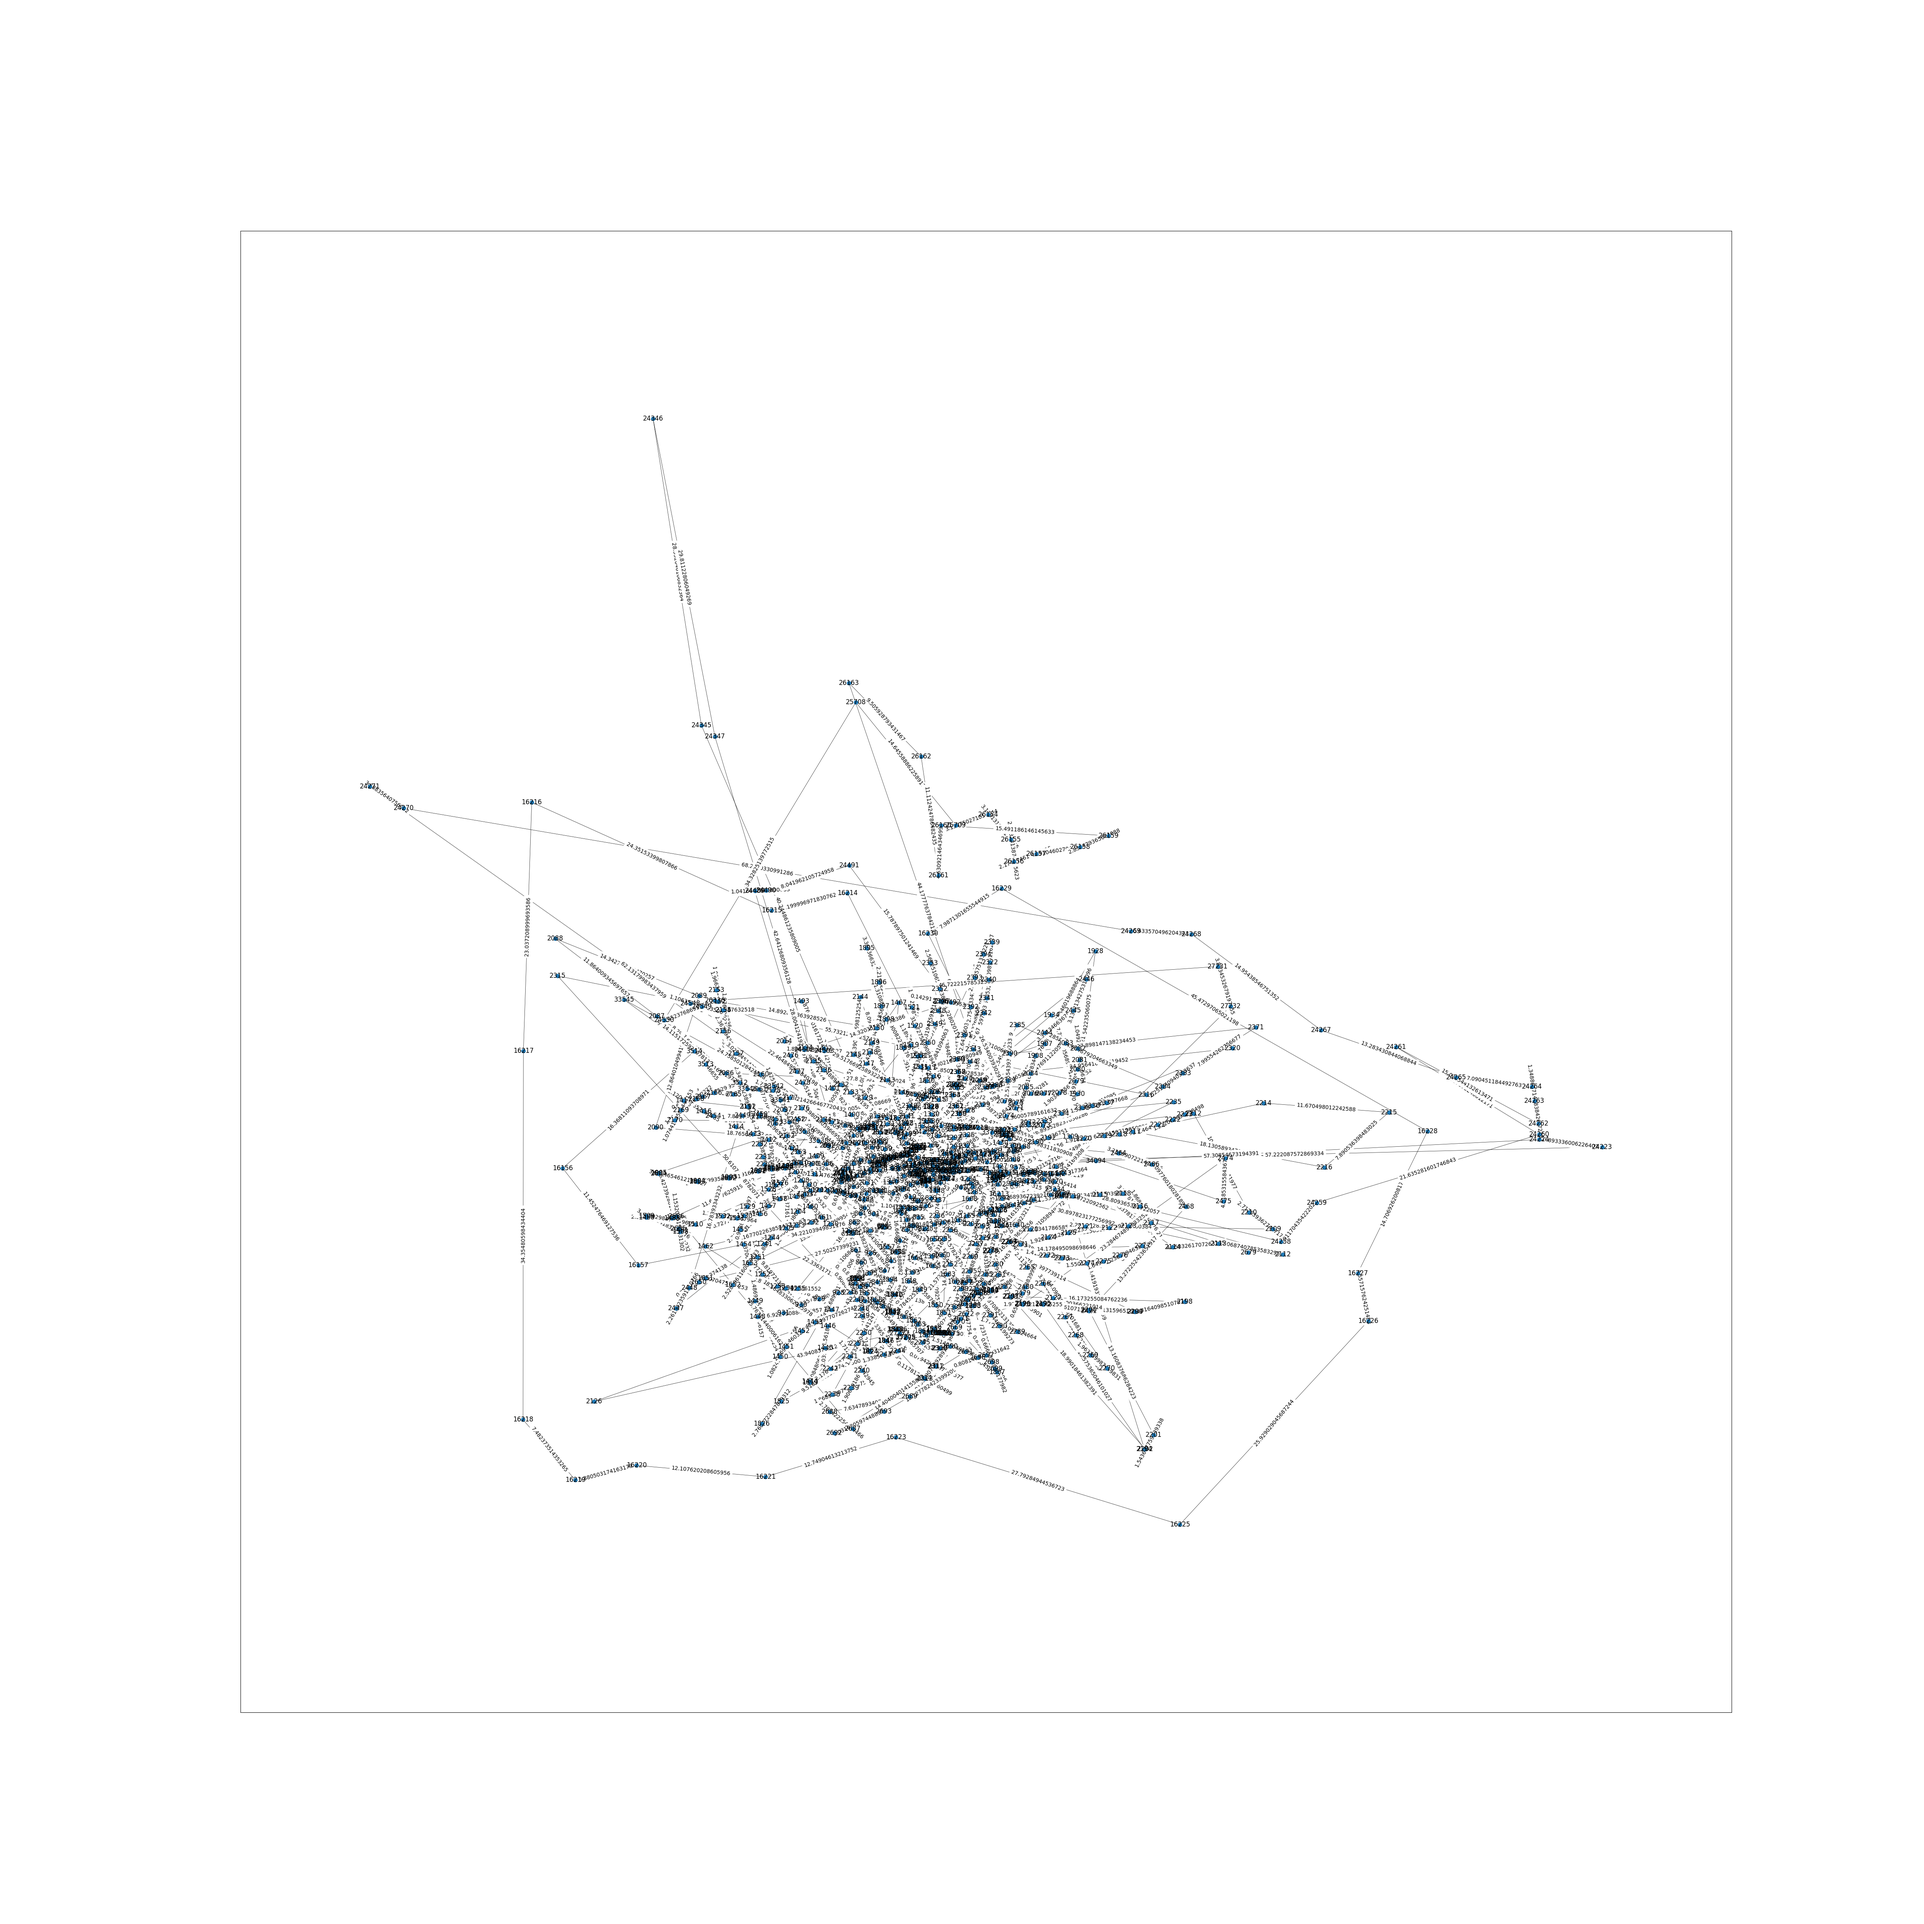
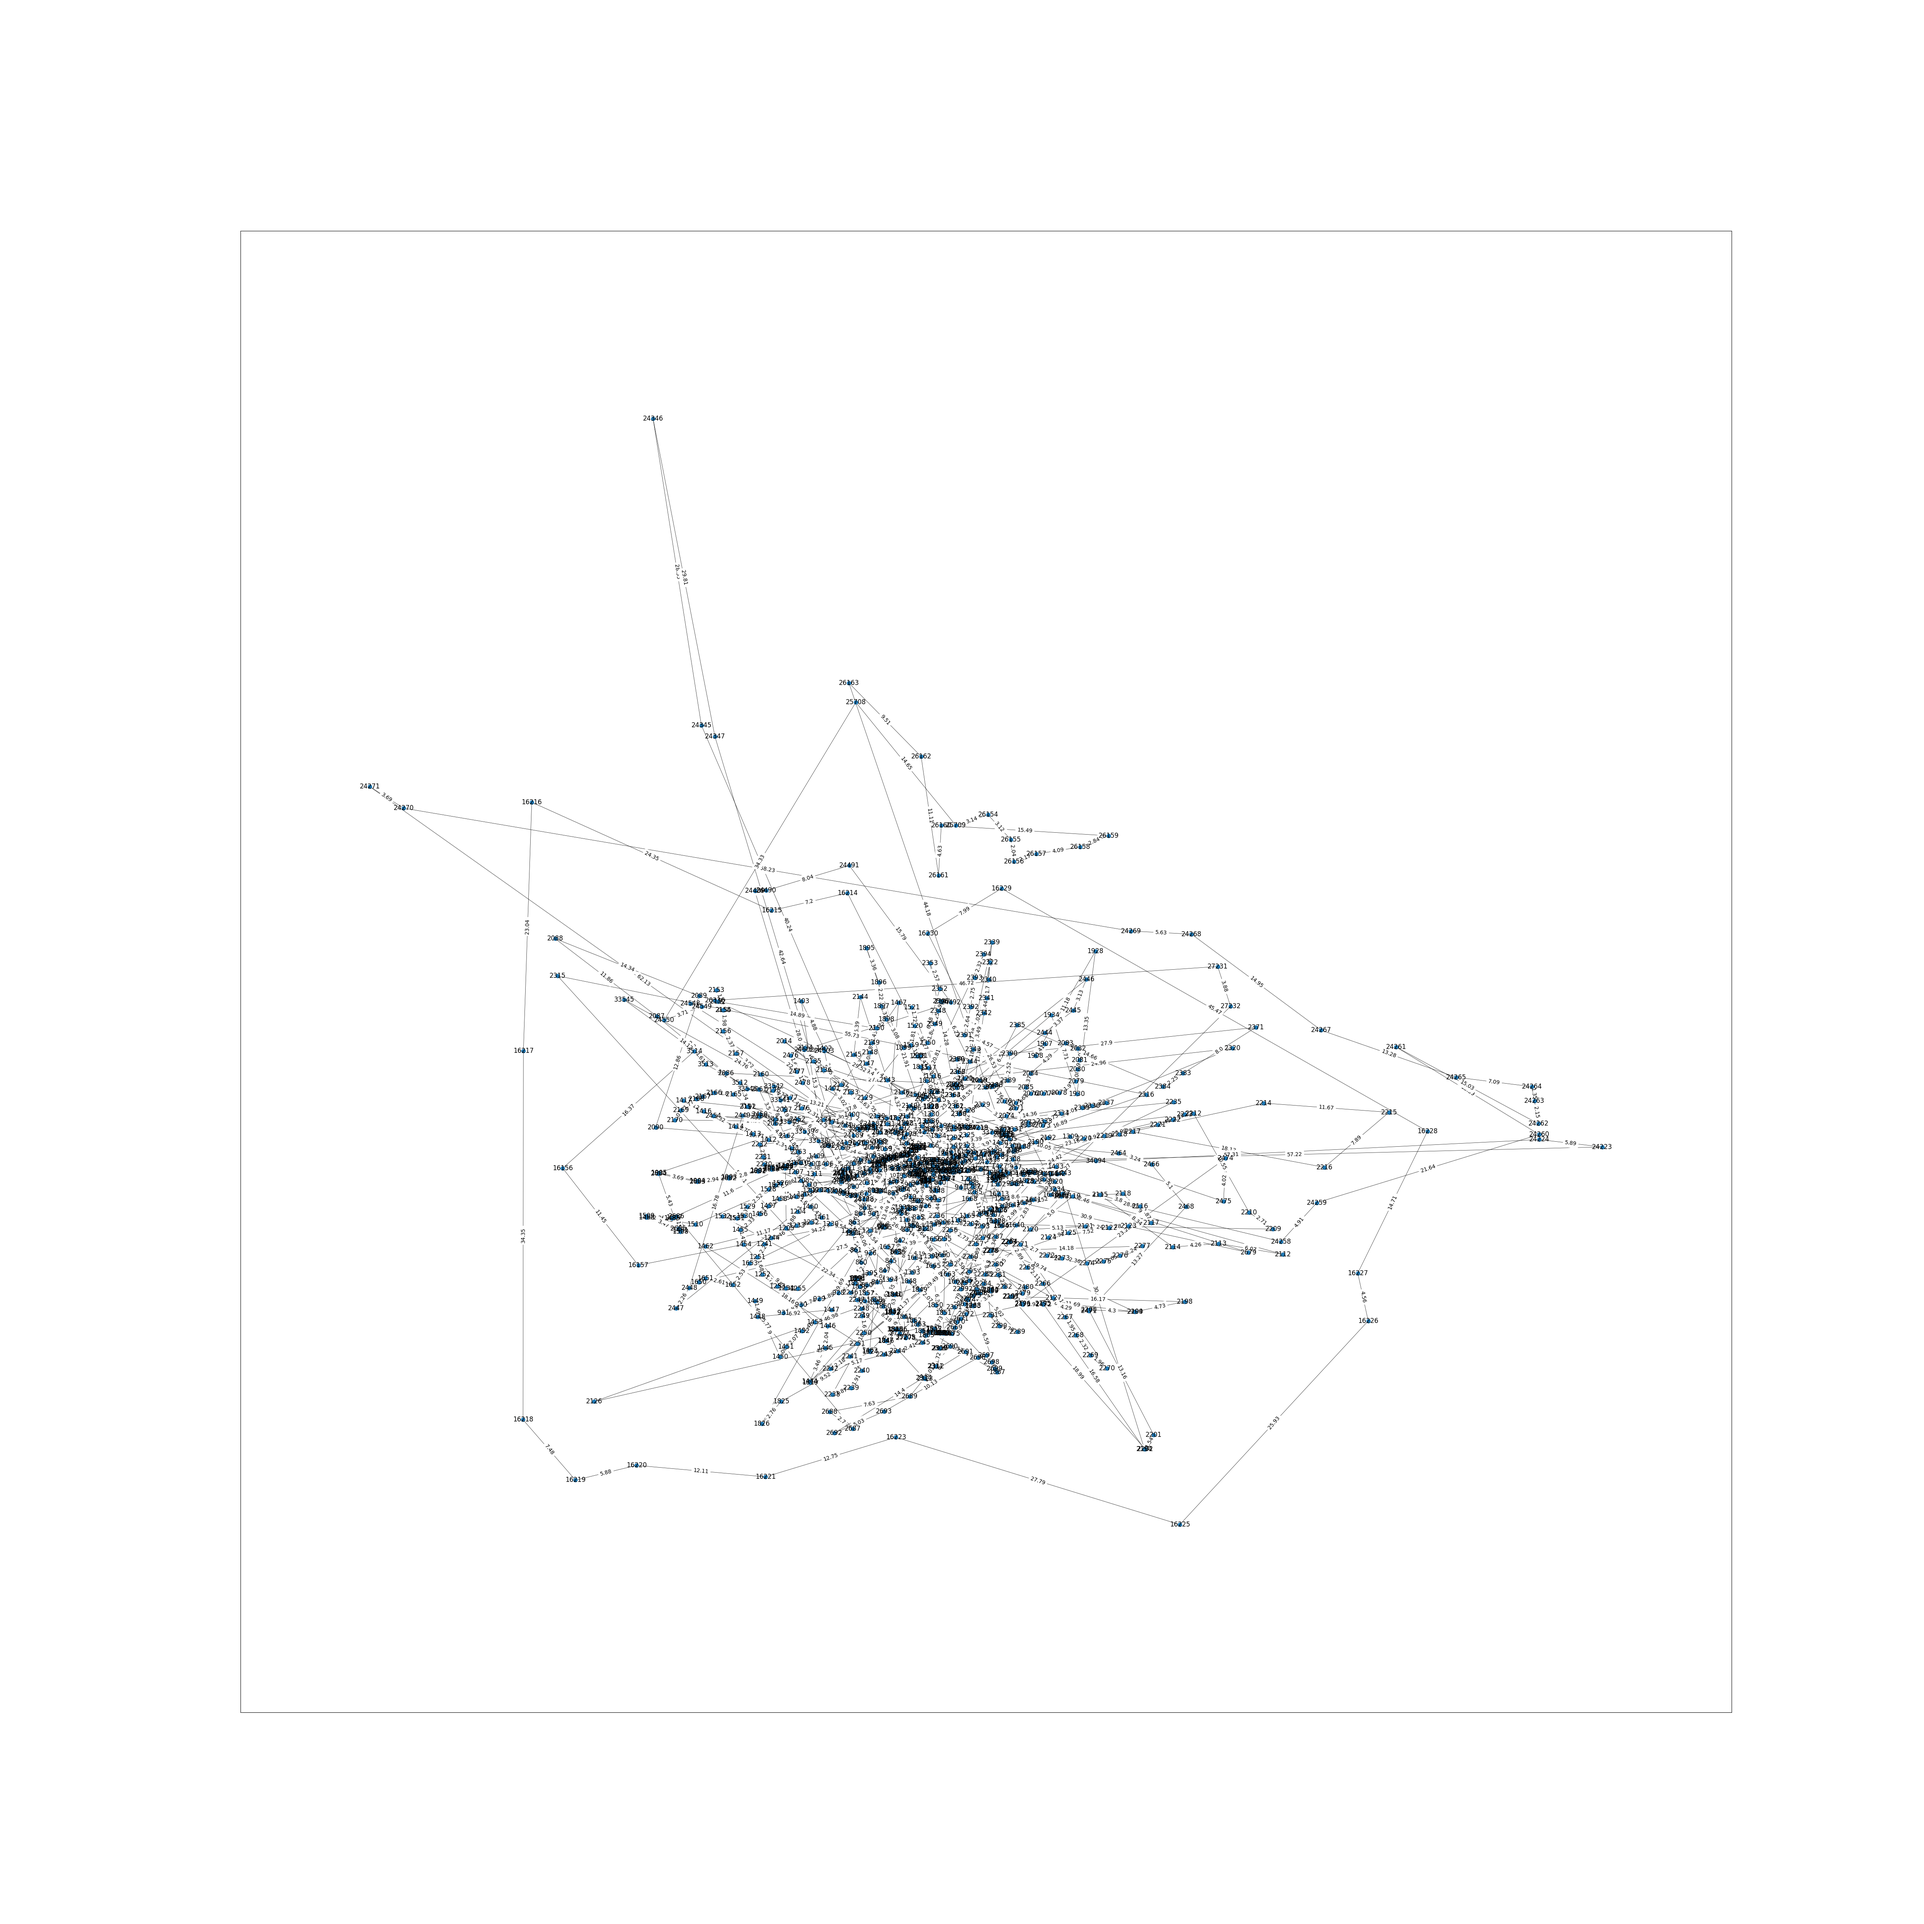
final metrics

Changed region(s): [[0.3432, 0.4992, 0.5928, 0.7488], [0.624, 0.5928, 0.6552, 0.624]]

diff --git a/src/main.py b/src/main.py
@@ -12,6 +12,7 @@ import contextily as ctx # use map layer
 import geopandas as gpd
 from shapely.geometry import LineString
 from pyproj import Transformer
+from random import randint
 
 cities = pd.read_csv('../data/cities.csv')
 stations = pd.read_csv('../data/stations.csv')
@@ -157,6 +158,8 @@ agrregated_city_df['line_id'] = agrregated_city_df['line_id'].apply(lambda x: x.
 
 expanded_df = agrregated_city_df.explode('line_id').reset_index(drop = True)
 
+expanded_df.dropna();
+
 expanded_df.head(20)
 
 expanded_df.info()
@@ -192,7 +195,7 @@ def haversine_distance(lat1, lon1, lat2, lon2):
 
     # Calculate distance
     distance = R * c
-    return distance
+    return round(distance, 2)
 
 #_____________________________________#
 #_____________________________________#
@@ -292,6 +295,74 @@ betweenness_centrality = nx.centrality.betweenness_centrality(
 print("________________")
 print("Betweenness Centrality: ", betweenness_centrality)
 print("________________")
+
+closeness_centrality = nx.centrality.closeness_centrality(
+    G
+)  # save results in a variable to use again
+(sorted(closeness_centrality.items(), key=lambda item: item[1], reverse=True))[:8]
+
+print("________________")
+print("Closeness Centrality: ", closeness_centrality)
+print("________________")
+
+average_distance = 1 / closeness_centrality[25709]
+
+print("________________")
+print("Average Distance: ", average_distance)
+print("________________")
+
+avg_clustering = nx.average_clustering(G)
+print("________________")
+print("Average Clustering: ", avg_clustering)
+print("________________")
+
+triangles_per_node = list(nx.triangles(G).values())
+sum(
+    triangles_per_node
+) / 3
+print("________________")
+print("Triangles Per Node: ", triangles_per_node)
+print("________________")
+
+avg_triangles = np.mean(triangles_per_node);
+print("________________")
+print("Average Triangles: ", avg_triangles)
+print("________________")
+
+median_triangles = np.median(triangles_per_node)
+print("________________")
+print("Median Triangles: ", median_triangles)
+print("________________")
+
+has_bridges = nx.has_bridges(G)
+print("________________")
+print("Has Bridges: ", has_bridges)
+print("________________")
+
+bridges = list(nx.bridges(G))
+amount_bridges = len(bridges)
+print("________________")
+print("Bridges: ", amount_bridges)
+print("________________")
+
+local_bridges = list(nx.local_bridges(G, with_span=False))
+amount_local_bridges = len(local_bridges)
+print("________________")
+print("Local Bridges: ", amount_local_bridges)
+print("________________")
+
+degree_assortativity_coefficient = nx.degree_assortativity_coefficient(G)
+print("________________")
+print("Degree Assortativity Coefficient: ", degree_assortativity_coefficient)
+print("________________")
+
+degree_pearson_correlation_coefficient = nx.degree_pearson_correlation_coefficient(
+    G
+)
+print("________________")
+print("Degree Pearson Correlation Coefficient: ", degree_pearson_correlation_coefficient)
+print("________________")
+
 #___________________________________________________#
 #________Network Path Lengths Visualization_________#
 #___________________________________________________#
@@ -366,6 +437,79 @@ plt.figure(figsize=(15, 8))
 nx.draw_networkx(G, pos=pos, node_size=node_size, with_labels=False, width=0.15)
 plt.axis("off")
 plt.savefig('./betweenness_centralities_visualization.png')
+plt.close()
+
+#__________________________________________________________________________________#
+#_________________________Closeness Centralities Visualization___________________#
+#__________________________________________________________________________________#
+
+plt.figure(figsize=(15, 8))
+plt.hist(closeness_centrality.values(), bins=60)
+plt.title("Closeness Centrality Histogram ", fontdict={"size": 35}, loc="center")
+plt.xlabel("Closeness Centrality", fontdict={"size": 20})
+plt.ylabel("Counts", fontdict={"size": 20})
+plt.savefig('./closeness_centralities_visualization.png')
+plt.close()
+
+#__________________________________________________________________________________#
+#_____________________Min Closeness Centralities Visualization_____________________#
+#__________________________________________________________________________________#
+
+node_size = [
+    v * 50 for v in closeness_centrality.values()
+]  # set up nodes size for a nice graph representation
+plt.figure(figsize=(15, 8))
+nx.draw_networkx(G, pos=pos, node_size=node_size, with_labels=False, width=0.15)
+plt.axis("off")
+plt.savefig('./minimum_centralities_visualization.png')
+plt.close()
+
+#__________________________________________________________________________________#
+#_______________Clustering Coefficient Histogram Visualization_____________________#
+#__________________________________________________________________________________#
+plt.figure(figsize=(15, 8))
+plt.hist(nx.clustering(G).values(), bins=50)
+plt.title("Clustering Coefficient Histogram ", fontdict={"size": 35}, loc="center")
+plt.xlabel("Clustering Coefficient", fontdict={"size": 20})
+plt.ylabel("Counts", fontdict={"size": 20})
+
+plt.savefig('./clustering_coefficient_visualization.png')
+plt.close()
+
+#__________________________________________________________________________________#
+#________________________________Local Bridges_____________________________________#
+#__________________________________________________________________________________#
+plt.figure(figsize=(15, 8))
+nx.draw_networkx(G, pos=pos, node_size=10, with_labels=False, width=0.15)
+nx.draw_networkx_edges(
+    G, pos, edgelist=local_bridges, width=0.5, edge_color="lawngreen"
+)  # green color for local bridges
+nx.draw_networkx_edges(
+    G, pos, edgelist=bridges, width=0.5, edge_color="r"
+)  # red color for bridges
+plt.axis("off")
+
+plt.savefig('./local_bridges_visualization.png')
+plt.close()
+
+#__________________________________________________________________________________#
+#_____________________________Communities Visualization____________________________#
+#__________________________________________________________________________________#
+colors = {}
+
+for com in nx.community.label_propagation_communities(G):
+    color = "#%06X" % randint(0, 0xFFFFFF)  # creates random RGB color
+    for node in list(com):
+        colors[node] = color
+        
+node_colors = [colors[node] for node in G.nodes()]
+
+plt.figure(figsize=(15, 9))
+plt.axis("off")
+nx.draw_networkx(
+    G, pos=pos, node_size=10, with_labels=False, width=0.15, node_color=node_colors
+)
+plt.savefig('./communities_visualization.png')
 plt.close()
 
 # Create a GeoDataFrame
